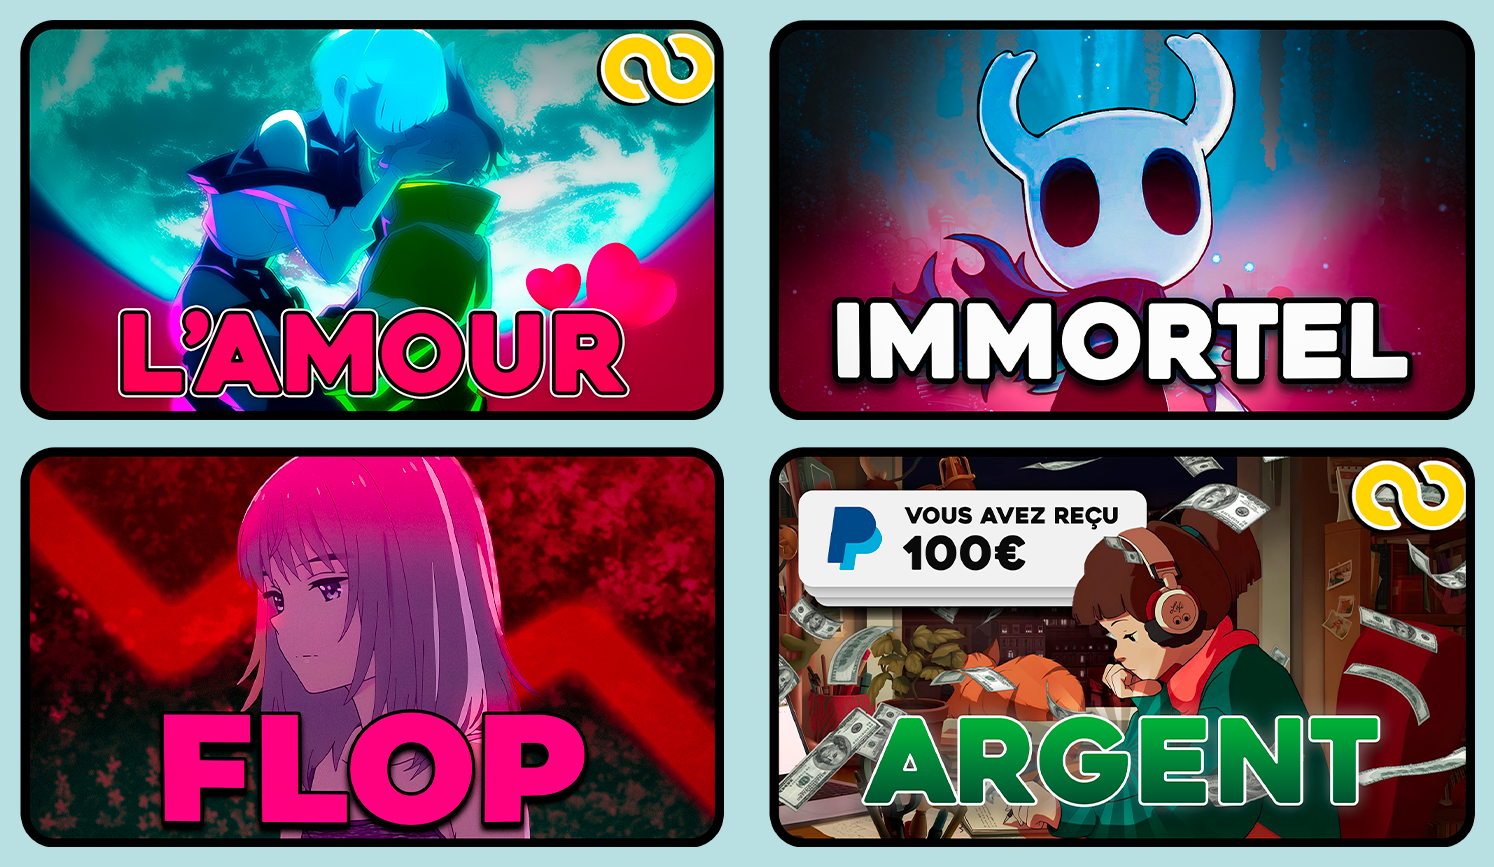
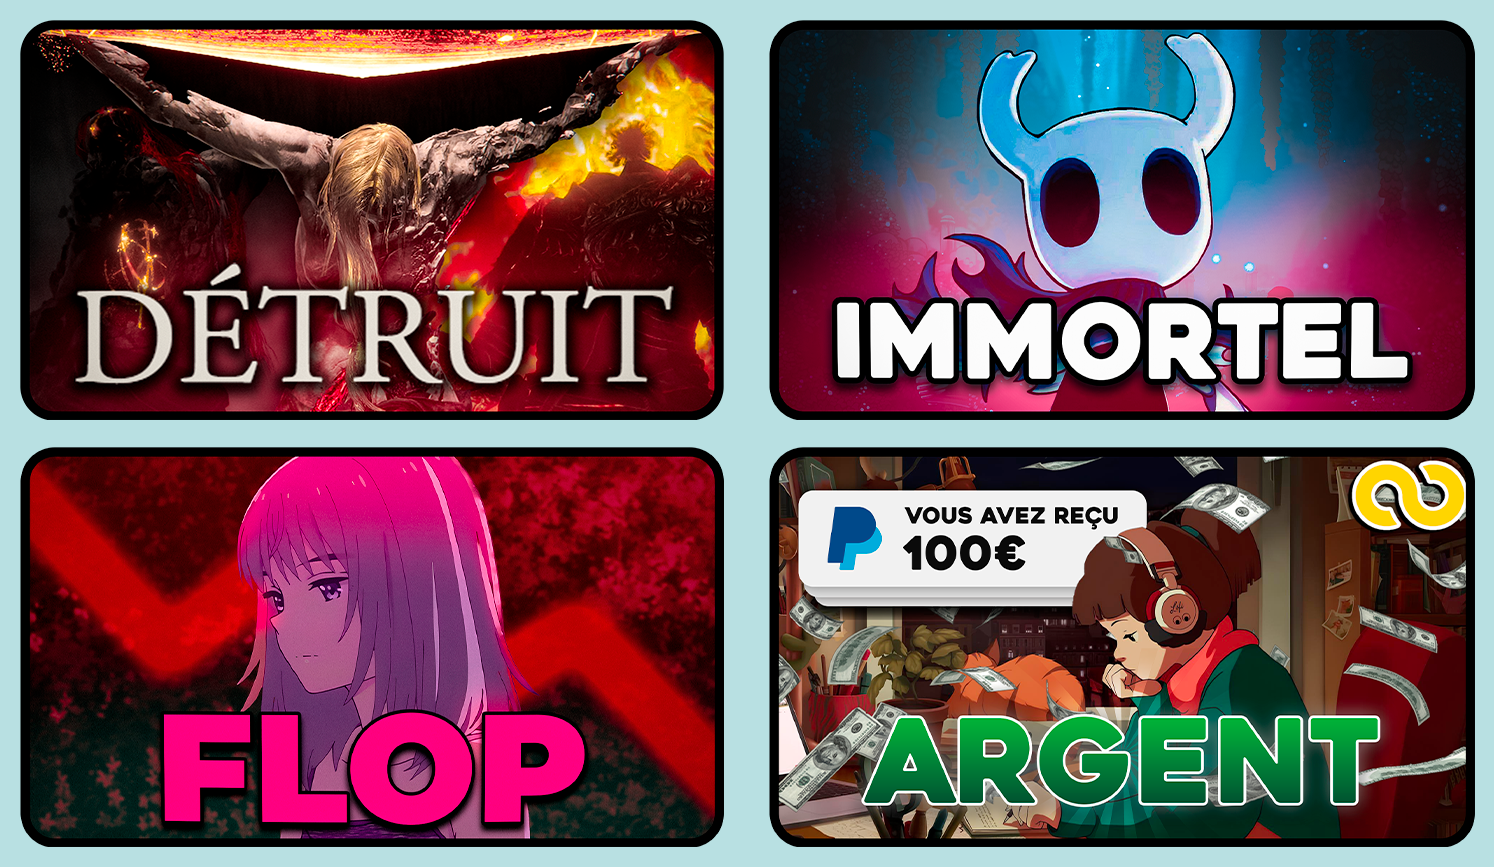
Portfolio

Changed region(s): [[0.0, 0.0311, 0.4926, 0.4983]]

diff --git a/Portfolio/index.html b/Portfolio/index.html
@@ -68,8 +68,8 @@
                     </div>
                     <div class="grid-item">
                         <div>
-                            <img src="Miniatures/Minia_Marchik.png">
-                            <p class="text">Me détruire pour renaître en 5 étapes <br>de Marchik</p>
+                            <img src="Miniatures/Minia-2-Berou.png">
+                            <p class="text">La Déesse Qui a Détruit Son Propre <br>Monde de Berou</p>
                         </div>
                     </div>
                 </div>
